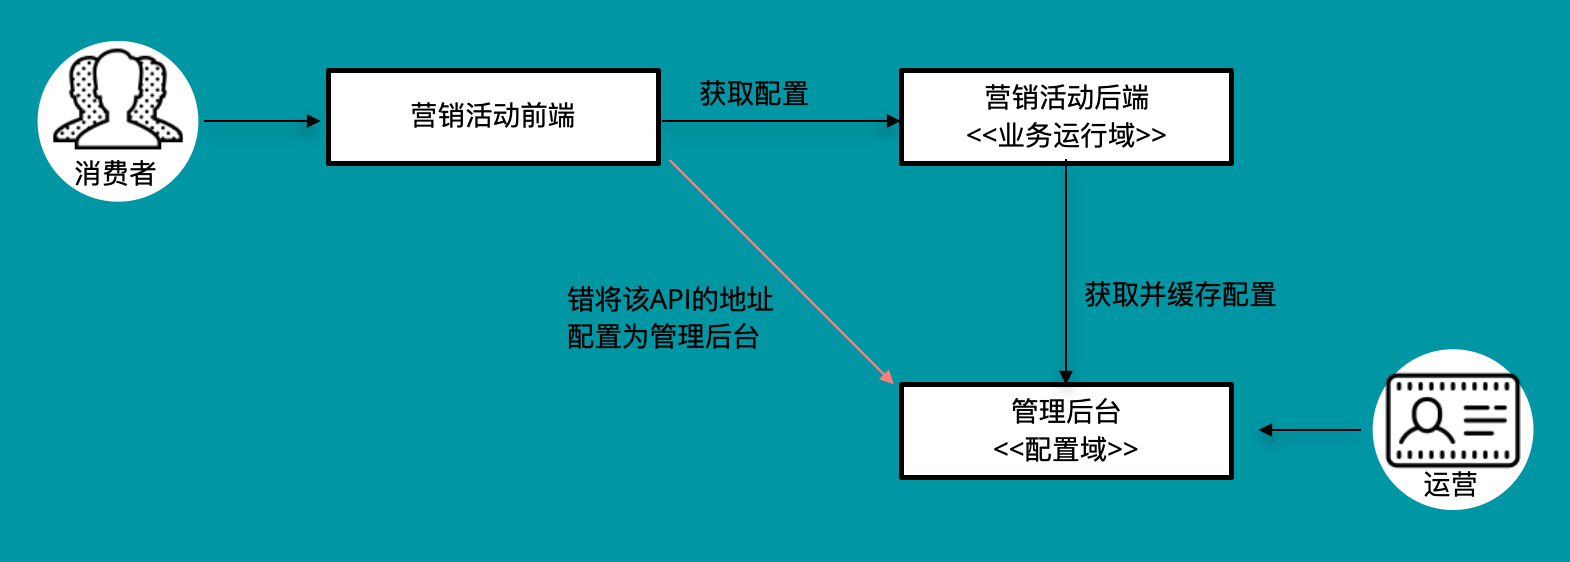
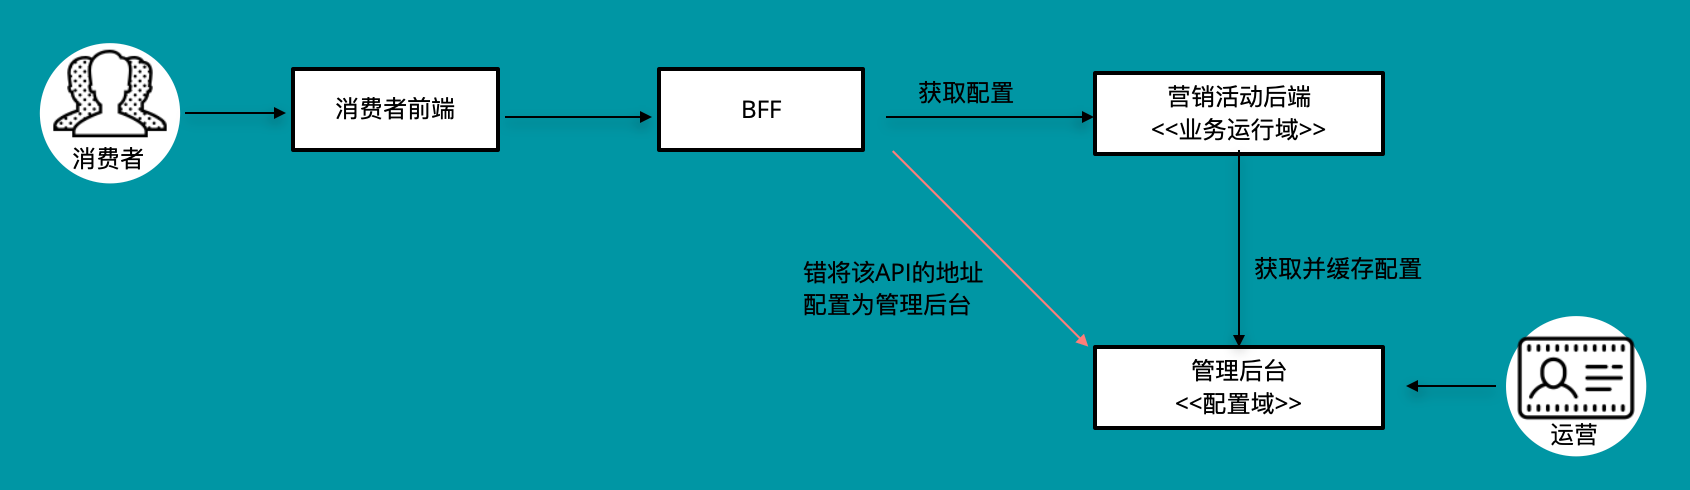
Fix content

diff --git a/_posts/2020-05-18-ioc-configuration.md b/_posts/2020-05-18-ioc-configuration.md
@@ -11,11 +11,11 @@ category: Enterprise Architecture
 
 > **背景**
 >
-> 他们有一个面向消费者的营销活动前端及其后端，同时也有一个管理后台供运营人员配置营销活动参数
+> 他们有一个面向消费者的前端及若干后端，同时也有一个管理后台供运营人员配置营销活动参数
 >
 > **事故**
 >
-> 某新活动上线后，营销活动前端感受到延迟激增，不多时管理后台崩溃，活动中断
+> 某新活动上线后，消费者前端感受到延迟激增，不多时管理后台崩溃，活动中断
 >
 > **原因**
 >
@@ -36,6 +36,7 @@ category: Enterprise Architecture
 
 1. 业务运行域开放更新配置的API（Rest API或消息队列）
 2. 配置域通过“发布”的方式将配置推送给业务运行域
+3. 通过网络隔离，限制业务运行域对配置域的直接访问
 
 通过这个依赖反转，我们可能还能收获两个有益的副作用：
 
